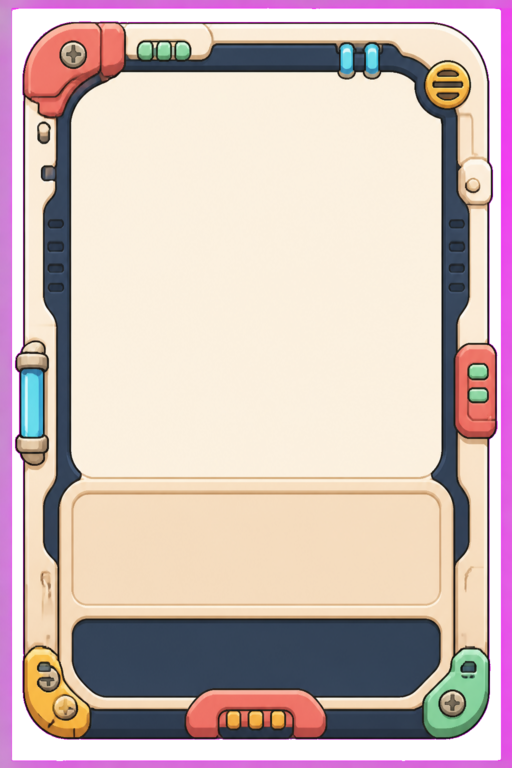
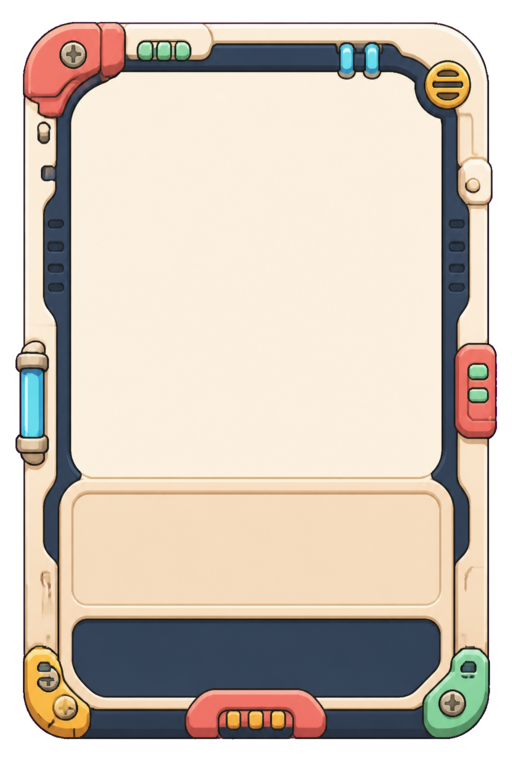
art: add generated weapon and module renders

Changed region(s): [[0.0, 0.0, 1.0, 1.0]]

diff --git a/artifacts/ui/prompts/equipment_asset_prompts.md b/artifacts/ui/prompts/equipment_asset_prompts.md
@@ -1,0 +1,31 @@
+# Equipment Asset Prompts v001
+
+Generation source: Codex built-in `imagegen` (2026-08-10). Reference:
+`artifacts/g0/style-reference/ref_style_001_candidate_v002.png`.
+
+Each asset was generated in a separate built-in call. The following invariant block was preserved:
+
+> Standalone polished kawaii cartoon 2D equipment cutout for Kaboom Caravan. Match the approved reference palette, outline and proportions. Soft toon shading, thick clean deep-navy outline, chunky rounded simplified mechanical shapes. Square master, three-quarter view, centered, fully visible, 68–76% subject occupancy and 10–14% safe margin. Bright soft lighting and a silhouette readable at 64px. Perfectly flat `#ff00ff` background with no shadow, gradient, floor or texture. Warm ivory, coral, deep navy, mint, cyan and warm yellow. No vehicle, character, text, logo, watermark, military realism, rust, grime or cyberpunk styling.
+
+## Subject prompts
+
+| asset_id               | subject correction                                                                          |
+| ---------------------- | ------------------------------------------------------------------------------------------- |
+| wpn_machine_cannon     | One short automatic cannon; bold barrel, coral receiver, ivory plates, mint ammunition feed |
+| wpn_scatter_cannon     | Exactly three short fan-arranged muzzles; squat receiver and yellow shell drum              |
+| wpn_flamethrower       | Flared nozzle, twin fuel canisters and restrained heat bands; no active flame               |
+| wpn_rocket_launcher    | Exactly four dominant launcher tubes on a compact swivel; no rockets or smoke               |
+| wpn_railgun            | Long tapered cannon, three cyan coil segments and compact power cell; no beam               |
+| wpn_mine_launcher      | Tilted three-mine drum and downward deployment chute; no loose mines                        |
+| mod_cooling_fan        | Five-blade mint fan inside an ivory protective ring                                         |
+| mod_generator          | Cyan coil window with twin cylinder housings and energy cells                               |
+| mod_ammo_box           | Ivory storage case with three oversized yellow shells in an open rack                       |
+| mod_armor              | Three curved physical armor plates with shock absorbers                                     |
+| mod_shield_generator   | Cyan energy disk in an ivory emitter ring; no surrounding force field                       |
+| mod_radar              | Mint radar dish on a rounded swivel base                                                    |
+| mod_heat_recycler      | Coral heat intake feeding three mint pipes into a cyan recovery cell                        |
+| mod_capacitor          | Two oversized cyan capacitor cylinders with coral clamps                                    |
+| mod_magnetic_armor     | Curved plates around large cyan electromagnet coils                                         |
+| mod_explosive_magazine | Reinforced coral drum overstuffed with three yellow explosive shells                        |
+
+Chroma masters are under `artifacts/ui/masters/`. Runtime files were keyed, trimmed and resized to a maximum 512×512 with ImageMagick because the environment did not provide Pillow for the skill helper.

diff --git a/docs/assets/equipment-manifest.md b/docs/assets/equipment-manifest.md
@@ -1,0 +1,22 @@
+# Equipment Asset Registry
+
+All entries use built-in `imagegen`, version `v001`, status `adopted`, prompt set `artifacts/ui/prompts/equipment_asset_prompts.md`, and are used by `CombatControls` and/or `RewardCard`.
+
+| asset_id               | purpose                   | runtime resolution | sha256                                                             |
+| ---------------------- | ------------------------- | ------------------ | ------------------------------------------------------------------ |
[16 lines of base64/hex data omitted]

diff --git a/docs/assets/ui-manifest.md b/docs/assets/ui-manifest.md
@@ -9,4 +9,4 @@
 
 Prompt set: `artifacts/ui/prompts/ui_asset_prompts.md`.
 
-Equipment illustrations are code-native SVG renders so all sixteen definitions share the same camera, palette and silhouette rules without AI shape drift. Small icons, dynamic rings, text and rarity treatment are also SVG/CSS. This is the intentional responsibility split recorded in `docs/ui/UIアセット仕様.md`.
+The sixteen generated equipment renders are registered in `docs/assets/equipment-manifest.md`. Small icons, dynamic rings, text and rarity treatment remain SVG/CSS for legibility and state control.
